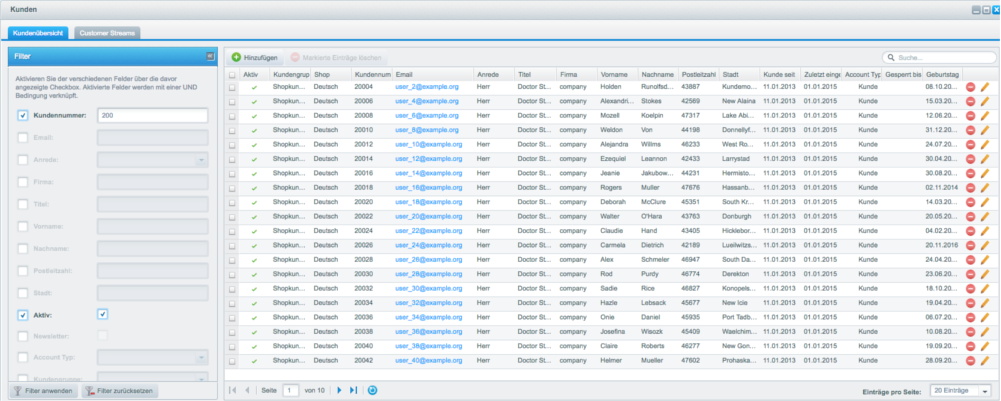
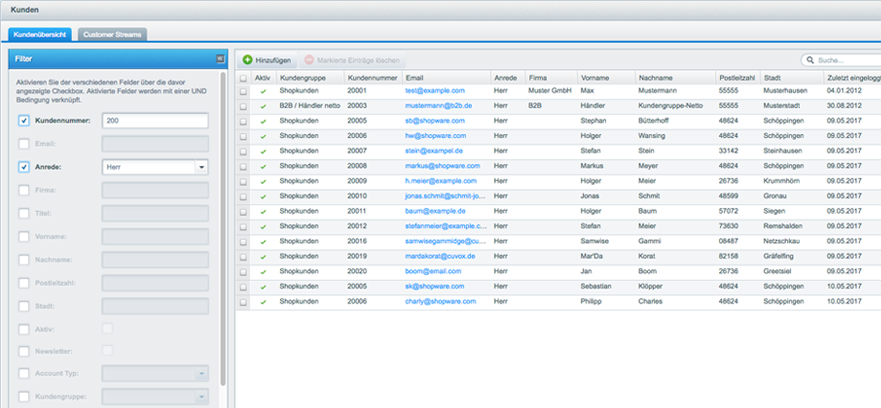
SW-18698 - Add new images for customer module wizard

diff --git a/themes/Backend/ExtJs/backend/customer/view/main/wizard.js b/themes/Backend/ExtJs/backend/customer/view/main/wizard.js
@@ -37,7 +37,7 @@ Ext.define('Shopware.apps.Customer.view.main.Wizard', {
     cls: 'plugin-manager-loading-mask customer-wizard',
     bodyPadding: 20,
     header: false,
-    width: 1400,
+    width: 1250,
     height: 540,
 
     initComponent: function() {
